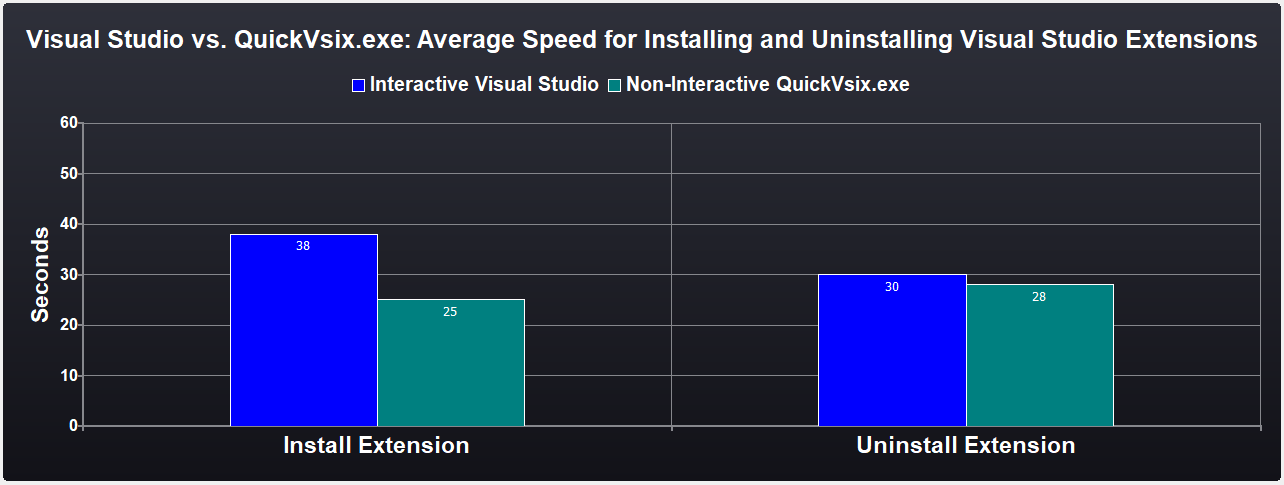
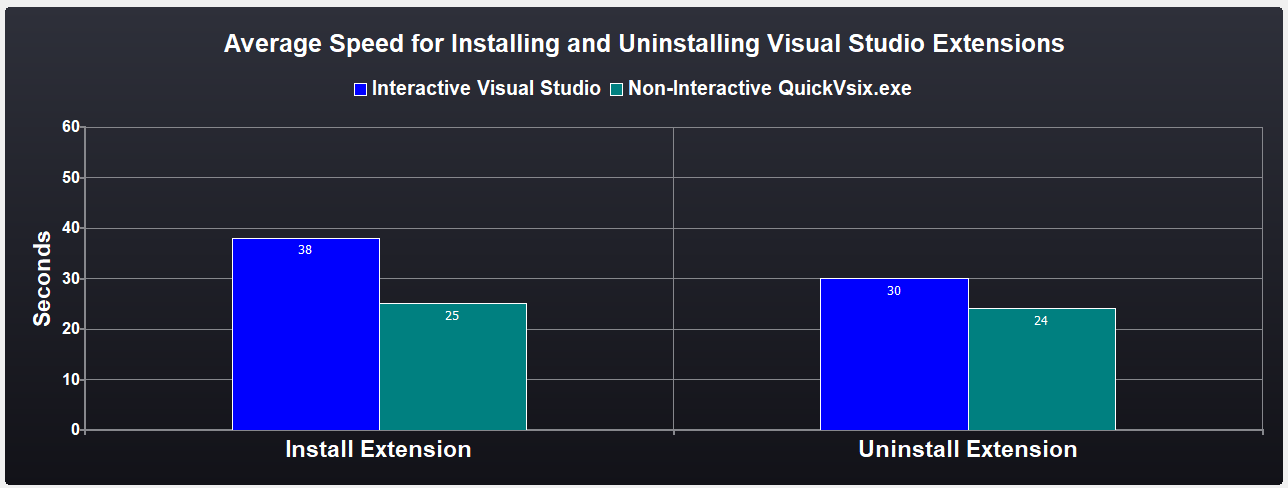
Bump version to 1.1.0

diff --git a/README.md b/README.md
@@ -7,15 +7,15 @@ QuickVsix is a C# Windows command line program for quickly and non-interactively
 |GitHub Actions Release build - windows-latest Visual Studio 2022|[![QuickVsix](https://github.com/NeilJustice/QuickVsix/actions/workflows/build.yml/badge.svg)](https://github.com/NeilJustice/QuickVsix/actions/workflows/build.yml)|
 |Codecov.io C# code coverage|[![codecov](https://codecov.io/gh/NeilJustice/QuickVsix/branch/main/graph/badge.svg?token=bkBnGJEyHz)](https://codecov.io/gh/NeilJustice/QuickVsix)|
 
-The default workflow for installing and uninstalling Visual Studio extensions is by way of a sequence of mouse clicks on interactive installation and uninstallation dialogs, which costs time relative to the non-interactive command line experience provided by QuickVsix.exe.
+The default workflow for installing and uninstalling Visual Studio extensions is by way of a sequence of mouse clicks on interactive install and uninstall dialogs, which costs time relative to the non-interactive command line experience provided by QuickVsix.exe.
 
-QuickVsix works by running VSIXInstaller.exe (which must be added to the PATH before running QuickVsix.exe) and then waiting for the VSIXInstaller.exe process to complete its extension installation or uninstallation work.
+QuickVsix works by running VSIXInstaller.exe (which must be added to the PATH before running QuickVsix.exe) and then waiting for the VSIXInstaller.exe process to complete its extension install, uninstall, or reinstall work.
 
-#### QuickVsix.exe saves you time if you frequently reinstall Visual Studio extensions:
+#### QuickVsix.exe saves you time if you frequently reinstall Visual Studio extensions under development:
 
 ![Visual Studio vs. QuickVsix install and uninstall speeds](Screenshots/VisualStudioVersusQuickVsixSpeeds.png)
 
-#### Command line usage
+#### QuickVsix.exe command line usage
 
 ```
 QuickVsix - Quickly and non-interactively installs, uninstalls, or reinstalls Visual Studio extensions.
